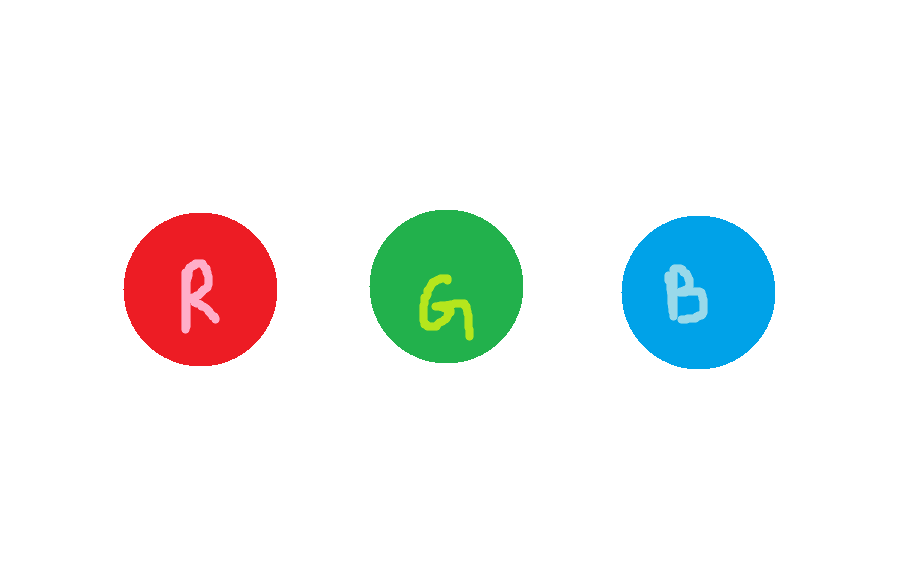
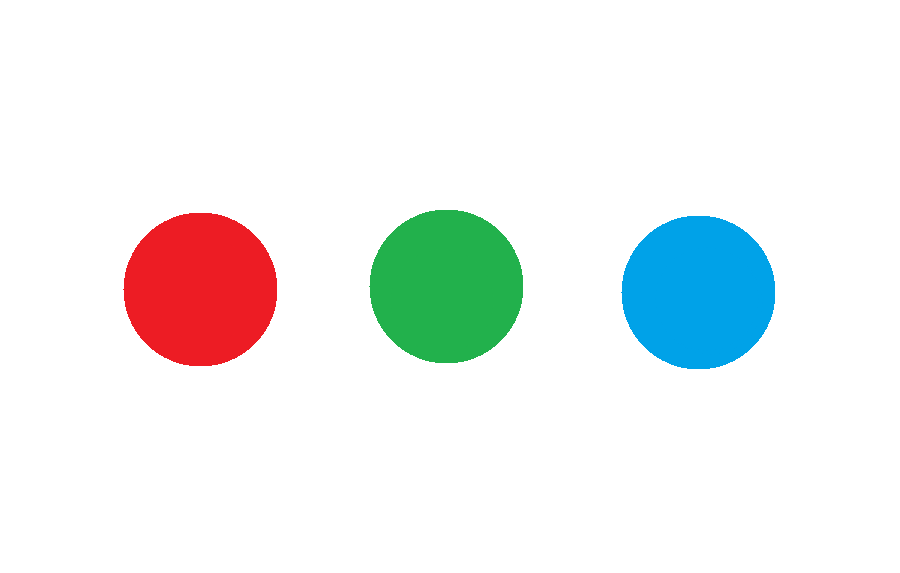
polishing

Changed region(s): [[0.1867, 0.445, 0.2489, 0.5934], [0.7156, 0.445, 0.8089, 0.5637], [0.4667, 0.4747, 0.5289, 0.5934]]

diff --git a/js/common.js b/js/common.js
@@ -35,20 +35,12 @@ function resolveNextPage(fromPageId) {
 function setupPuzzle(pageId, correctAnswers) {
 
     const start = startPageId();
-    const visitKey = "visited:" + pageId;
-
-    if (start === pageId && sessionStorage.getItem(visitKey)) {
-        window.location.replace(pageUrl("ending") + window.location.search);
-        return;
-    }
 
     enableAnswer(correctAnswers, () => {
-        if (start === pageId) {
-            sessionStorage.setItem(visitKey, "1");
-        }
-        return pageUrl(resolveNextPage(pageId)) + window.location.search;
+        const nextPageId = resolveNextPage(pageId);
+        const finalPageId = nextPageId === start ? "ending" : nextPageId;
+        return pageUrl(finalPageId) + window.location.search;
     });
-
 }
 
 function setupLandingPage() {
@@ -73,7 +65,7 @@ function setupLandingPage() {
 
             destination = null;
             button.disabled = true;
-            message.textContent = value.length > 0 ? "Unknown country." : "";
+            message.textContent = value.length > 0 ? "Incorrect Country." : "";
 
         }
 

diff --git a/placeholder.html b/placeholder.html
@@ -3,25 +3,28 @@
 <head>
     <meta charset="UTF-8">
     <meta name="viewport" content="width=device-width, initial-scale=1.0">
-    <title>???</title>
+    <title>Riddle</title>
 
     <link rel="stylesheet" href="style.css">
 </head>
 <body>
 
 <div class="container">
-    <h1>???</h1>
+    <h1>Riddle</h1>
 
     <p>
-        I hold the element of the moon in my palm. It whispers Fibonacci nine times to me. I call to book a holiday for some tapas, and the person tells me to not look the rule up on the internet. <br>
-What’s the code?
+        I hold the element of the greek moon in my palm. 
+        I can see Fibonacci, the ninth. 
+        I call to book a holiday for some tapas, 
+        and they tells me to not look the rule up on the internet. <br>
+        What’s the 2 digit code?
     </p>
 
     <p>
         <input
             id="answer"
             type="text"
-            placeholder="2n"
+            placeholder="##"
             autocomplete="off"
             style="--content-width: 3ch;"
         >

diff --git a/morse.html b/morse.html
@@ -13,11 +13,21 @@
     <h1>Encoding</h1>
 
     <audio controls>
-        <source src="aud/morse.wav" type="audio/wav">
+        <source src="aud/morse1.wav" type="audio/wav">
     Your browser does not support the audio element.
     </audio>
     <br>
 
+    <audio controls>
+        <source src="aud/morse2.wav" type="audio/wav">
+    Your browser does not support the audio element.
+    </audio>
+    <br>
+    <audio controls>
+        <source src="aud/morse3.wav" type="audio/wav">
+    Your browser does not support the audio element.
+    </audio>
+    <br>
     <input
         id="answer"
         type="text"

diff --git a/4Bus.html b/4Bus.html
@@ -14,14 +14,14 @@
 
     <p class="clue">
         Black Boy Hill <br>
-        STOP B - BUS
+        STOP C - BUS
     </p>
 
     <input
         id="answer"
         type="text"
         autocomplete="off"
-        placeholder="3N"
+        placeholder="###"
         style="--content-width: 4ch;"
         maxlength="3"
     >

diff --git a/ending.html b/ending.html
@@ -11,10 +11,10 @@
 
 <div class="container">
 
-    <h1>You made it back!</h1>
+    <h1>Congratulations!</h1>
 
     <p>
-        TODO: ending content.
+        51°28'00.8"N 2°36'36.5"W
     </p>
 
 </div>

diff --git a/caesar.html b/caesar.html
@@ -13,7 +13,6 @@
     <h1>Cipher</h1>
 
     <p class="clue">
-        a → f<br> <!-- TODO change this -->
         ? → zxmfsyytxhnqqd
     </p>
 
@@ -27,7 +26,7 @@
         <input
             id="answer"
             type="text"
-            placeholder="string"
+            placeholder="14 char text"
             autocomplete="off"
             style="--content-width: 14ch;"
         >

diff --git a/1Restaurant.html b/1Restaurant.html
@@ -26,7 +26,7 @@
             id="answer"
             type="text"
             autocomplete="off"
-            placeholder="2N"
+            placeholder="##"
             style="--content-width: 3ch;"
             maxlength="2"
         >

diff --git a/3Church.html b/3Church.html
@@ -24,7 +24,7 @@
             id="answer"
             type="text"
             autocomplete="off"
-            placeholder="STRING"
+            placeholder="text"
             style="--content-width: 10ch;"
         >
         H SIMS

diff --git a/5Tower.html b/5Tower.html
@@ -21,7 +21,7 @@
         id="answer"
         type="text"
         autocomplete="off"
-        placeholder="NN"
+        placeholder="##"
         style="--content-width: 10ch;"
         maxlength="2"
     >

diff --git a/ascii.html b/ascii.html
@@ -22,7 +22,7 @@
         id="answer"
         type="text"
         autocomplete="off"
-        placeholder="14 char string"
+        placeholder="14 char text"
         style="--content-width: 15ch;"
         maxlength="14"
     >

diff --git a/paintings.html b/paintings.html
@@ -22,7 +22,7 @@
         <input
             id="answer"
             type="text"
-            placeholder="string"
+            placeholder="text"
             autocomplete="off"
             style="--content-width: 14ch;"
         >

diff --git a/shanty.html b/shanty.html
@@ -26,7 +26,7 @@
         <input
             id="answer"
             type="text"
-            placeholder="2N"
+            placeholder="##"
             autocomplete="off"
         >
     </p>